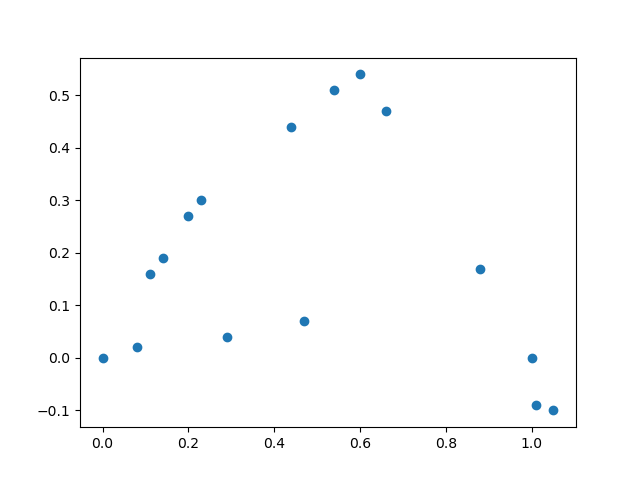
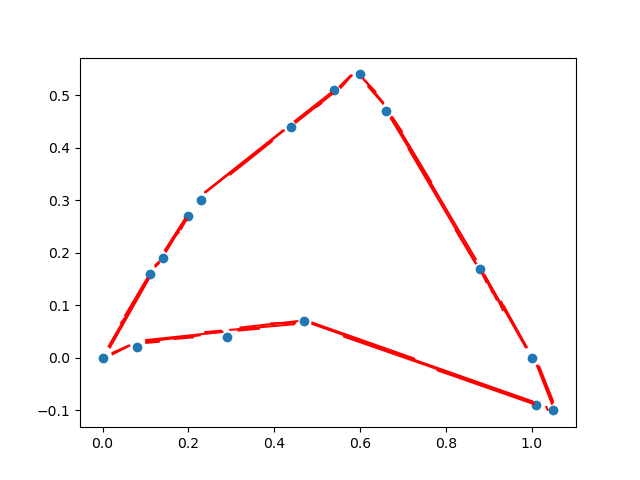
connecting lines are drawn

diff --git a/DIP_Project.py b/DIP_Project.py
@@ -10,7 +10,10 @@ def dist(p1, p2):
 def getAngle(p0, p1, p2):
 	return math.acos((dist(p0, p1)**2 + dist(p0, p2)**2 - dist(p1, p2)**2)/(2*(dist(p0, p1)**2)*(dist(p0, p2)**2)))
 
-def getNormalisedCoordinates(contours):
+def getNormalisedCoordinates(contours, lines=None):
+
+	lines = np.array(lines)
+
 	# Finding the coordinates of the contours and their area
 	coordinates = {}
 	for i in range(len(contours)):
@@ -24,7 +27,7 @@ def getNormalisedCoordinates(contours):
 			coordinates[area+0.0001] = (cx, cy)
 		else:
 			coordinates[area] = (cx, cy)
-
+		
 	sorted_area = []
 	for i in reversed(sorted(coordinates.keys())):  
 		sorted_area.append(i)
@@ -35,11 +38,23 @@ def getNormalisedCoordinates(contours):
 	for area in sorted_area:
 		x.append(coordinates[area][0])
 		y.append(coordinates[area][1])
+	
+	for line in lines:
+		for x1,y1,x2,y2 in line:
+			x1-= x[0]
+			y1 -= y[0]
+			x2 -= x[0]
+			y2 -= y[0]
+			line[0][0] = x1
+			line[0][1] = y1
+			line[0][2] = x2
+			line[0][3] = y2
 
 	# Shifting the brightest star to origin
 	for i in range(len(x)):
 		x[len(x)-i-1] -= x[0]
 		y[len(x)-i-1] -= y[0]
+
 
 	# Distance between brightest and second brightest star
 	distance_brightest = math.sqrt((x[0]-x[1])**2 + (y[0]-y[1])**2)
@@ -48,6 +63,7 @@ def getNormalisedCoordinates(contours):
 	for i in range(len(x)):
 		x[i] = x[i]/distance_brightest
 		y[i] = y[i]/distance_brightest
+	lines = lines/distance_brightest
 
 	# Finding the angle of rotation to rotate second brightest star to (1, 0)
 	p0 = (x[0], y[0])
@@ -63,7 +79,19 @@ def getNormalisedCoordinates(contours):
 		y_new = x[i]*math.sin(theta) + y[i]*math.cos(theta)
 		x[i], y[i] = round(x_new, 2), round(y_new, 2)
 
-	return x, y
+	for line in lines:
+		for x1,y1,x2,y2 in line:
+			x1_new = x1*math.cos(theta) - y1*math.sin(theta)
+			y1_new = x1*math.sin(theta) + y1*math.cos(theta)
+			x2_new = x2*math.cos(theta) - y2*math.sin(theta)
+			y2_new = x2*math.sin(theta) + y2*math.cos(theta)
+			line[0][0] = x1_new
+			line[0][1] = y1_new
+			line[0][2] = x2_new
+			line[0][3] = y2_new
+			
+
+	return x, y, lines
 
 # Finding edges using Canny edge detection
 def findEdges(image, thresh1, thresh2):
@@ -94,11 +122,23 @@ def binariseImage(img, thresholds):
 
 	return output_thresh
 
+def getGreenChannel(img):
+
+	image_copy_green = img.copy()
+	# Setting Green and Red channel 0
+	image_copy_green[:, :, 0] = 0
+	image_copy_green[:, :, 2] = 0
+	return image_copy_green
+
+def getBlueChannel(img):
+	
+	image_copy_blue = img.copy()
+	# Setting Green and Red channel 0
+	image_copy_blue[:, :, 1] = 0
+	image_copy_blue[:, :, 2] = 0
+	return image_copy_blue
+
 def getRedChannel(img):
-	# image_copy_blue = img.copy()
-	# # Setting Green and Red channel 0
-	# image_copy_blue[:, :, 1] = 0
-	# image_copy_blue[:, :, 2] = 0
 
 	# Setting Green and Blue channel 0
 	image_copy = img.copy()
@@ -114,6 +154,7 @@ def makeTemplates():
 
 	# Iterate through each file in the template directory to process one template at a time
 	for filename in os.listdir(template_directory):
+	# for filename in ["Hercules.png"]:
 		print(filename)
 
 		# Reading the template 
@@ -123,21 +164,54 @@ def makeTemplates():
 		# plotImage(red_channel, "red")
 		thresh = binariseImage(red_channel, [165.75, 191.25])
 
+		blue_channel = getBlueChannel(img)
+
+		thresh2 = binariseImage(red_channel, [125.75, 255])
+		letters = thresh2[0] - thresh2[1]
+		new_blue = blue_channel + letters
+
+		for i in range(len(new_blue)):
+			for j in range(len(new_blue[i])):
+				if new_blue[i][j][2] != 0:
+					new_blue[i][j][1] = 0
+					new_blue[i][j][0] = 0
+					new_blue[i][j][2] = 0
+
 		# Subtracting to get only stars
 		final = thresh[0] - thresh[1]
 		# plotImage(final, "final")
 
 		stars = applyMedian(final, 3)
-		# plotImage(stars, "stars")
+		lines = applyMedian(new_blue, 3)
 
 		stars_grey = getGrayscale(stars)
+		lines_grey = getGrayscale(lines)
 		final_stars = binariseImage(stars_grey, [20])
+		final_lines = binariseImage(lines_grey, [5])
 		final_stars_inverted = invertImage(final_stars[0])
-		# plotImage(final_stars[0], "final stars")
+		final_lines_inverted = invertImage(final_lines[0])
+		final_lines = applyMedian(final_lines[0], 3)  
 
 		edged = findEdges(final_stars_inverted, 30, 200)
 		# plotImage(edged, "edges")
 		# cv2.waitKey(0)  
+
+		rho = 1  # distance resolution in pixels of the Hough grid
+		theta = np.pi / 180  # angular resolution in radians of the Hough grid
+		threshold = 10  # minimum number of votes (intersections in Hough grid cell)
+		min_line_length = 2  # minimum number of pixels making up a line
+		max_line_gap = 3  # maximum gap in pixels between connectable line segments
+		line_image = np.copy(img) * 0  # creating a blank to draw lines on
+
+		# Run Hough on edge detected image
+		# Output "lines" is an array containing endpoints of detected line segments
+		drawn_lines = cv2.HoughLinesP(final_lines, rho, theta, threshold, np.array([]), min_line_length, max_line_gap)
+		# drawn_lines = drawn_lines[1:]
+		for line in drawn_lines:
+			for x1,y1,x2,y2 in line:
+				cv2.line(line_image,(x1,y1),(x2,y2),(255,0,0),5)
+		# cv2.imshow("drawn", line_image)
+		# cv2.waitKey(0)
 
 		# Finding the contours in the image
 		edge_copy = edged.copy()
@@ -148,22 +222,28 @@ def makeTemplates():
 			area = cv2.contourArea(contour)
 			if area != 0:
 				final_contours.append(contour)
-
+		
 		print("Number of Contours found = " + str(len(final_contours)))
 		# cv2.drawContours(img, contours, -1, (0, 255, 0), 3) 
 		# cv2.imshow('Contours', img) 
 		# cv2.waitKey(0) 
 		# cv2.destroyAllWindows()
 
-		x, y = getNormalisedCoordinates(final_contours)
+		x, y, normalised_lines = getNormalisedCoordinates(final_contours, drawn_lines)
 
 		templates_coordinates[filename[:-4]] = (x, y)
 
 		# Plot the normalised stars or save them
-		# plt.figure("Normalised" + filename[:-4] + "stars")
-		# plt.scatter(x, y)
+		plt.figure("Normalised " + filename[:-4] + " stars")
+		plt.scatter(x, y)
+		for line in normalised_lines:
+			for x1,y1,x2,y2 in line:
+				plt.plot([x1, x2], [y1, y2], color='red')
+
 		# plt.savefig("./Normalised_Templates/" + filename)
 		# plt.close()
+		plt.show()
+		# exit()
 
 		# Return the normalised coordinates 
 		# return x, y
@@ -177,7 +257,7 @@ def makeTemplates():
 if __name__ == "__main__":
 
 	# Process and find the normalised coordinate for each template present in the Templates directory
-	# makeTemplates()
+	makeTemplates()
 
 	img = cv2.imread("test.png")
 	img = getGrayscale(img)
